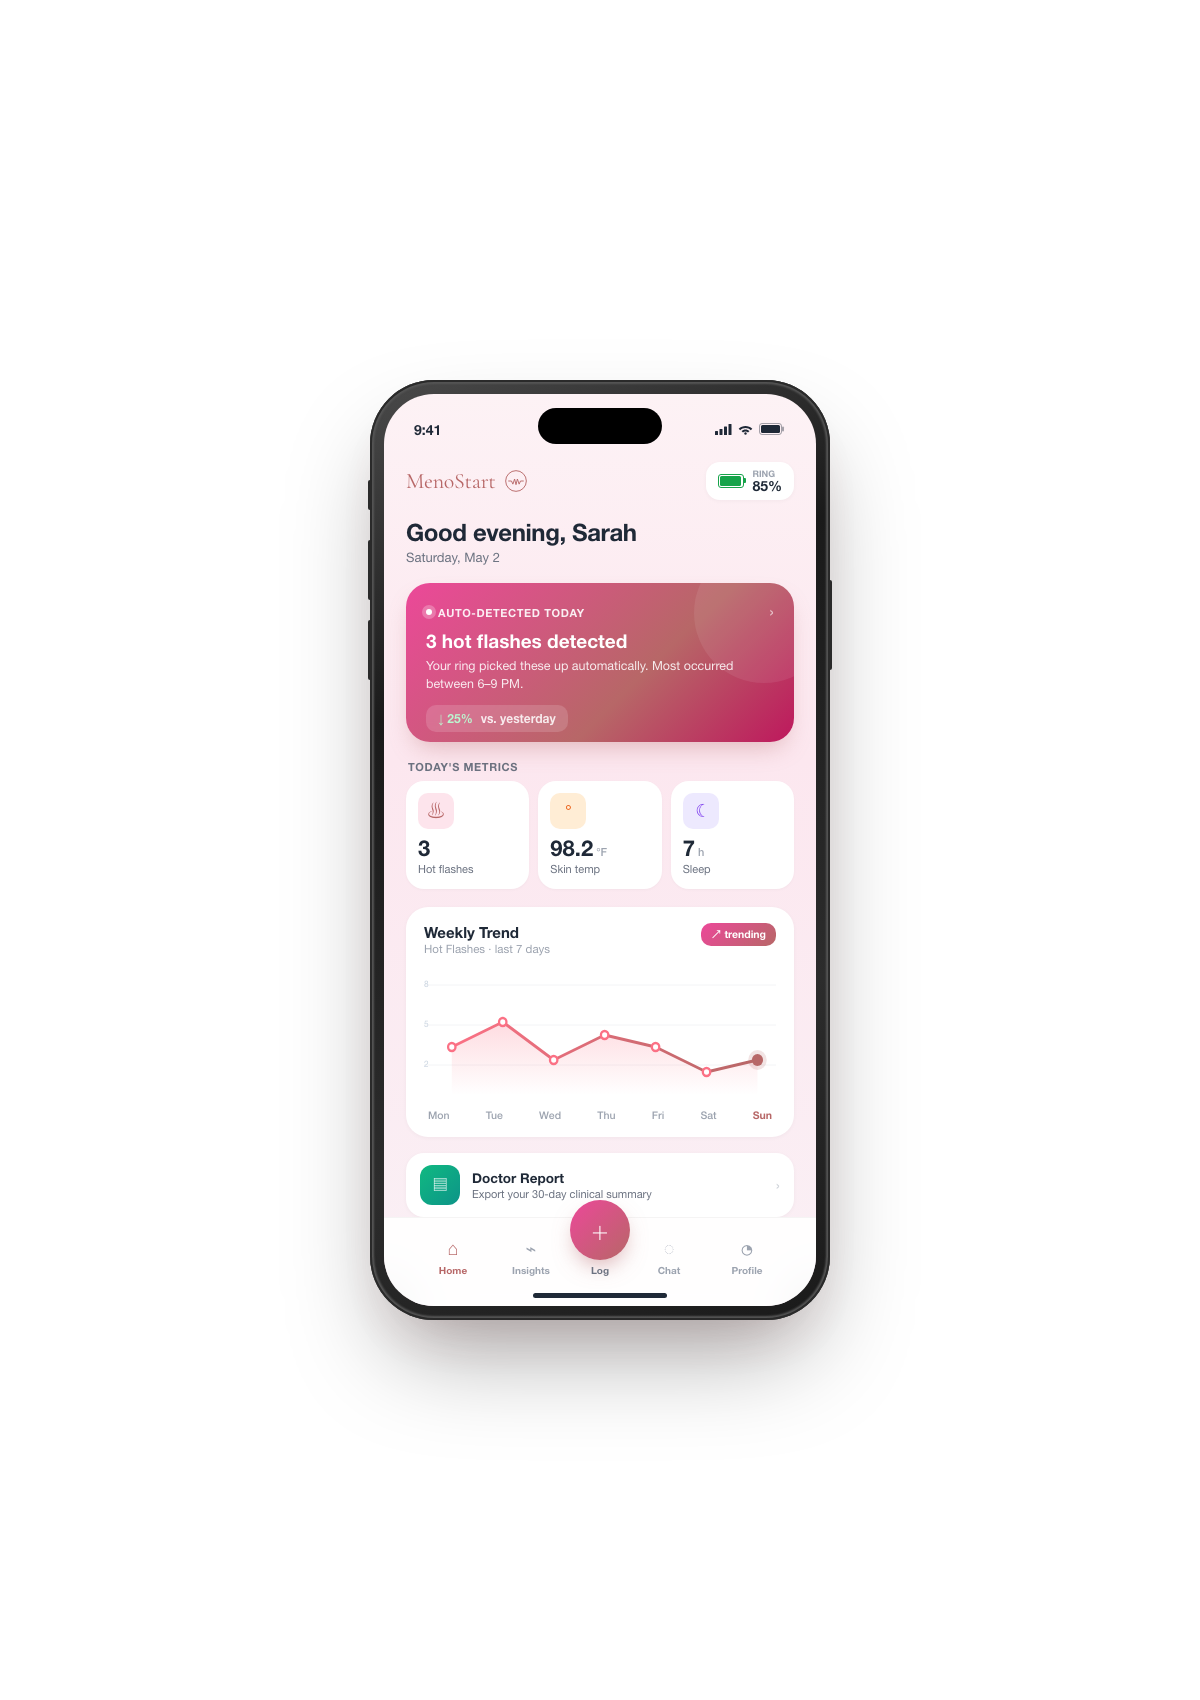
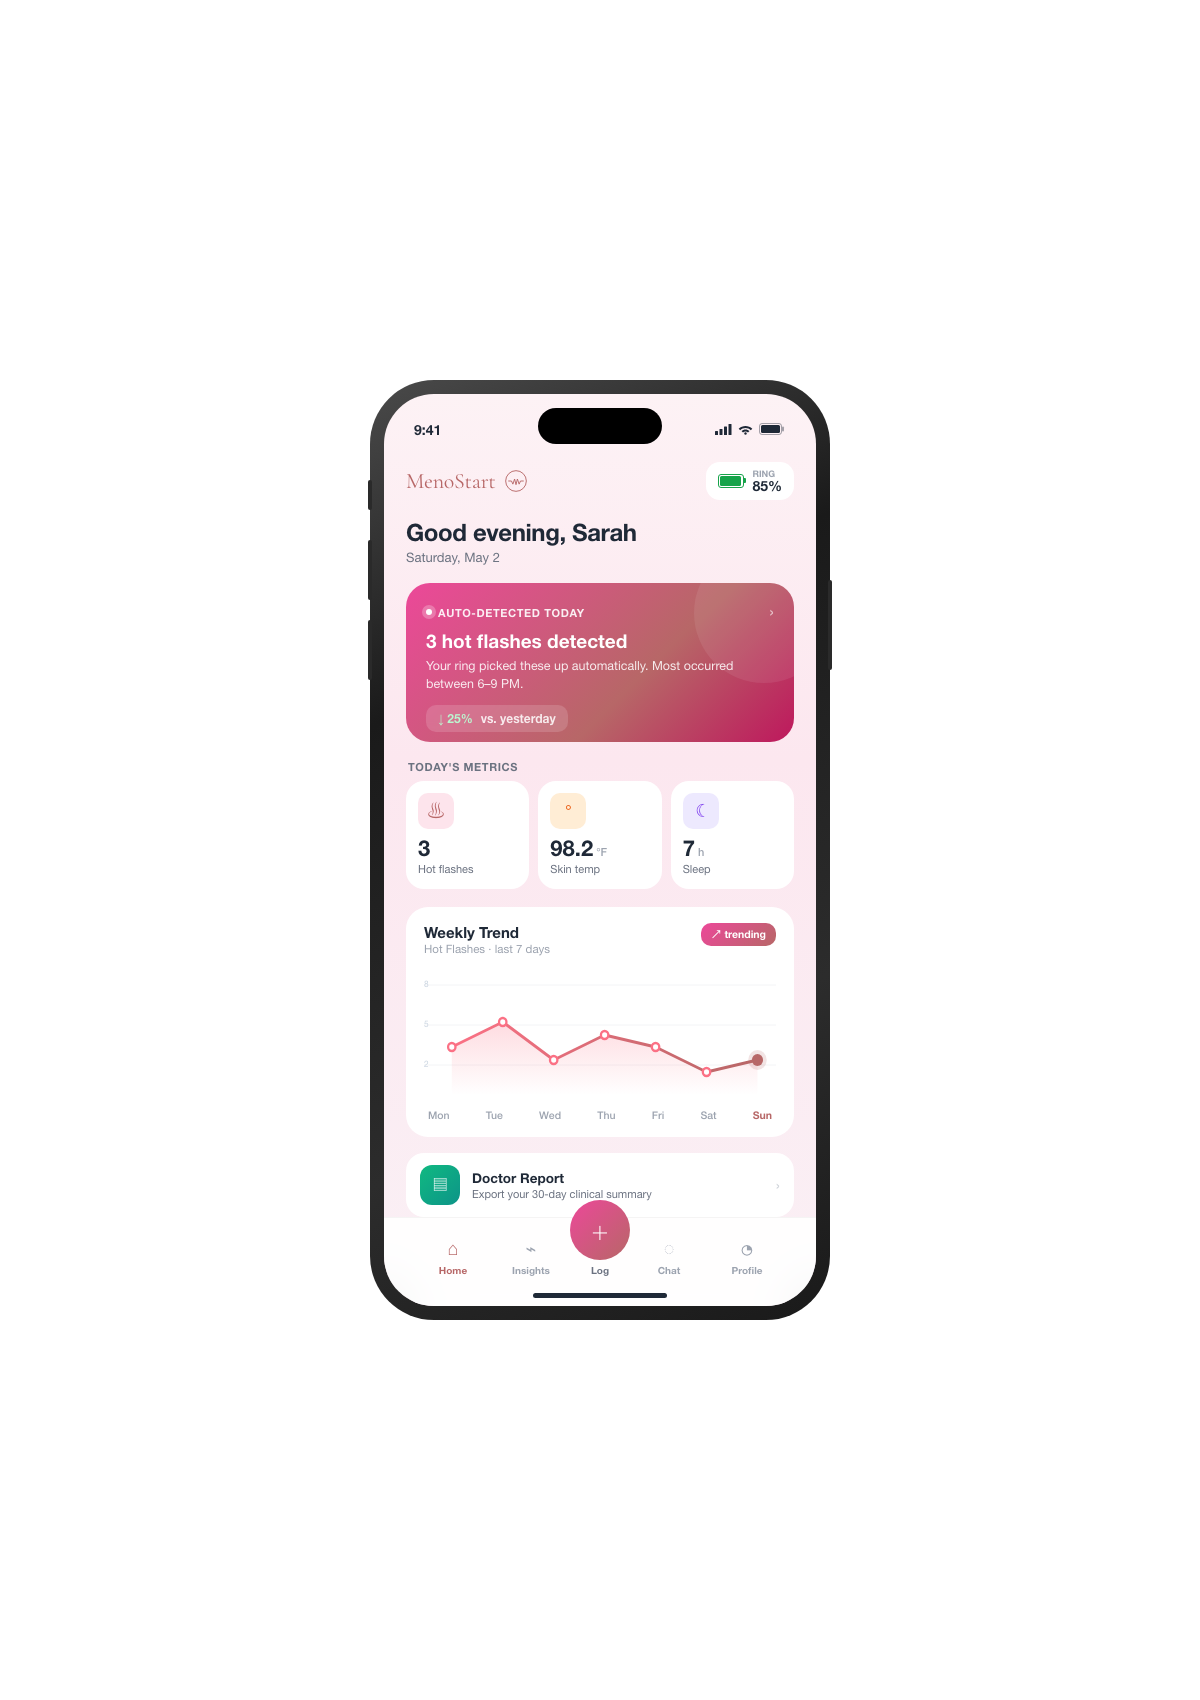
new UI changes

Changed region(s): [[0.2775, 0.2806, 0.7092, 0.8106], [0.37, 0.4365, 0.6167, 0.4676]]

diff --git a/mockup_home.html b/mockup_home.html
@@ -37,11 +37,6 @@
     border-radius: 64px;
     padding: 14px;
     position: relative;
-    box-shadow:
-      0 50px 100px -20px rgba(0,0,0,0.35),
-      0 30px 60px -30px rgba(183, 103, 103, 0.25),
-      inset 0 0 0 2px #2a2a2a,
-      inset 0 0 2px 4px #555;
   }
   /* side buttons */
   .btn-side { position: absolute; background: #2a2a2a; border-radius: 2px; }
@@ -127,7 +122,6 @@
     display: flex;
     align-items: center;
     gap: 8px;
-    box-shadow: 0 1px 4px rgba(0,0,0,0.04);
   }
   .battery-icon {
     width: 26px; height: 14px;
@@ -164,7 +158,6 @@
     border-radius: 24px;
     padding: 18px 20px 20px;
     color: #fff;
-    box-shadow: 0 12px 24px -8px rgba(183, 103, 103, 0.4);
     margin-bottom: 18px;
     position: relative;
     overflow: hidden;
@@ -224,7 +217,6 @@
     background: #fff;
     border-radius: 18px;
     padding: 12px 12px 14px;
-    box-shadow: 0 1px 3px rgba(0,0,0,0.03);
   }
   .metric-icon {
     width: 36px; height: 36px;
@@ -245,7 +237,6 @@
     background: #fff;
     border-radius: 22px;
     padding: 16px 18px;
-    box-shadow: 0 1px 4px rgba(0,0,0,0.04);
     margin-bottom: 16px;
   }
   .trend-head {
@@ -278,7 +269,6 @@
     border-radius: 18px;
     padding: 12px 14px;
     display: flex; align-items: center; gap: 12px;
-    box-shadow: 0 1px 4px rgba(0,0,0,0.04);
   }
   .rl-icon {
     width: 40px; height: 40px;
@@ -321,7 +311,6 @@
     background: linear-gradient(135deg, #ec4899, #b76767);
     display: flex; align-items: center; justify-content: center;
     color: #fff; font-size: 28px; font-weight: 300;
-    box-shadow: 0 10px 22px -6px rgba(183, 103, 103, 0.55);
   }
   .nav-fab .label { font-size: 10px; font-weight: 700; color: #6b7280; margin-top: 4px; text-align: center; }
 

diff --git a/mockup_laptop.html b/mockup_laptop.html
@@ -40,9 +40,6 @@
     border-radius: 18px 18px 4px 4px;
     padding: 18px 18px 22px 18px;
     position: relative;
-    box-shadow:
-      inset 0 0 0 1.5px #2c2c2c,
-      inset 0 0 0 3px #4a4a4a;
   }
   .mbp-camera {
     position: absolute;
